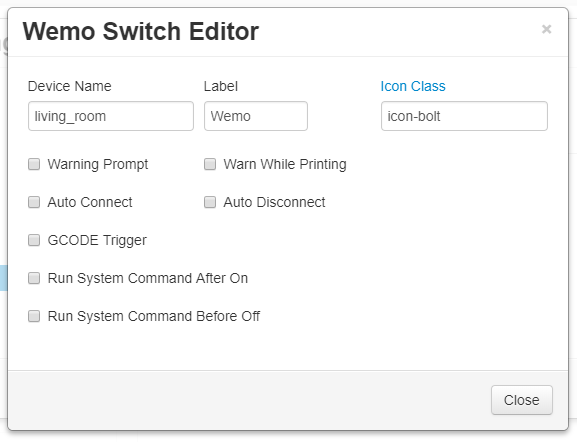
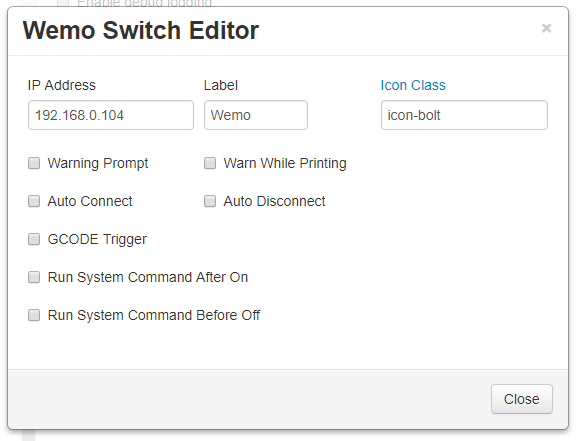
0.1.2

diff --git a/octoprint_wemoswitch/__init__.py b/octoprint_wemoswitch/__init__.py
@@ -223,6 +223,24 @@ class wemoswitchPlugin(octoprint.plugin.SettingsPlugin,
 				return
 			else:
 				return
+		elif cmd.startswith("@WEMOON"):
+			plugip = re.sub(r'^@WEMOON\s?', '', cmd)
+			self._wemoswitch_logger.debug("Received @WEMOON command, attempting power on of %s." % plugip)
+			plug = self.plug_search(self._settings.get(["arrSmartplugs"]),"ip",plugip)
+			self._wemoswitch_logger.debug(plug)
+			if plug["gcodeEnabled"]:
+				t = threading.Timer(int(plug["gcodeOnDelay"]),self.turn_on,args=[plugip])
+				t.start()
+			return None
+		elif cmd.startswith("@WEMOOFF"):
+			plugip = re.sub(r'^@WEMOOFF\s?', '', cmd)
+			self._wemoswitch_logger.debug("Received @WEMOOFF command, attempting power off of %s." % plugip)
+			plug = self.plug_search(self._settings.get(["arrSmartplugs"]),"ip",plugip)
+			self._wemoswitch_logger.debug(plug)
+			if plug["gcodeEnabled"]:
+				t = threading.Timer(int(plug["gcodeOffDelay"]),self.gcode_turn_off,[plug])
+				t.start()
+			return None
 
 
 	##~~ Softwareupdate hook

diff --git a/setup.py b/setup.py
@@ -14,7 +14,7 @@ plugin_package = "octoprint_wemoswitch"
 plugin_name = "OctoPrint-WemoSwitch"
 
 # The plugin's version. Can be overwritten within OctoPrint's internal data via __plugin_version__ in the plugin module
-plugin_version = "0.1.1"
+plugin_version = "0.1.2"
 
 # The plugin's description. Can be overwritten within OctoPrint's internal data via __plugin_description__ in the plugin
 # module

diff --git a/README.md b/README.md
@@ -16,8 +16,8 @@ Once installed go into settings and enter the name of your wemo device. Adjust a
 
 ![screenshot](settings_wemo_editor.png)
 
-- **Device Name**
-  - Name configured in the Wemo App associated with the plug.
+- **IP Address**
+  - The IP address of the wemo device.
 - **Label**
   - Label to use for title attribute on hover over button in navbar.
 - **Icon Class**
@@ -26,7 +26,8 @@ Once installed go into settings and enter the name of your wemo device. Adjust a
   - The left checkbox will always warn when checked.
   - The right checkbox will only warn when printer is printing.
 - **GCODE**
-  - When checked this will enable the processing of M80 and M81 commands from gcode to power on/off plug.  Syntax for gcode command is M80/M81 followed by device name.  For example if your plug is `living_room` your gcode command would be **M80 living_room**
+  - When checked this will enable the processing of M80 and M81 commands from gcode to power on/off plug.  Syntax for gcode command is M80/M81 followed by the plug's ip address.  For example if your plug's IP address is `192.168.0.104` your gcode command would be **M80 192.168.0.104**
+  - Added with version 0.1.2 you can now use the custom action commands `@WEMOON` and `@WEMOOFF` followed by the IP address of the plug.  For example if your plug's IP address is 192.168.0.104 your gcode command would be **@WEMOON 192.168.0.104**.  This option will only work for plugs with GCODE processing enabled.
 - **postConnect**
   - Automatically connect to printer after plug is powered on.
   - Will wait for number of seconds configured in **Auto Connect Delay** setting prior to attempting connection to printer.

diff --git a/changelog.md b/changelog.md
@@ -4,8 +4,18 @@ All notable changes to this project will be documented in this file.
 The format is based on [Keep a Changelog](http://keepachangelog.com/en/1.0.0/)
 and this project adheres to [Semantic Versioning](http://semver.org/spec/v2.0.0.html).
 
+## [0.1.2] - 2018-11-17
+### Added
+- New custom gcode action commands `@WEMOON` and `@WEMOOFF` now recognized for controlling plugs.
+
+## [0.1.1] - 2018-09-30
+### Fixes
+- Issue with insight devices resolved.
+
 ## [0.1.0] - 2018-09-15
 ### Added
 - Initial release.
 
+[0.1.2]: https://github.com/jneilliii/OctoPrint-WemoSwitch/tree/0.1.2
+[0.1.1]: https://github.com/jneilliii/OctoPrint-WemoSwitch/tree/0.1.1
 [0.1.0]: https://github.com/jneilliii/OctoPrint-WemoSwitch/tree/0.1.0
